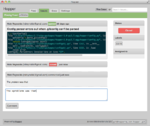
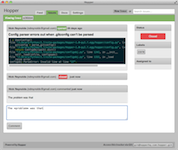
Different font, bigger thumbnails

diff --git a/index.html b/index.html
@@ -6,68 +6,66 @@
       src="https://ajax.googleapis.com/ajax/libs/jquery/1.7/jquery.min.js"></script>
     <script type="text/javascript" src="js/spinners.js"></script>
     <script type="text/javascript" src="js/lightview.js"></script>
-    <link rel="stylesheet" 
-      href="http://fonts.googleapis.com/css?family=Oxygen" type="text/css">
+    <link href='http://fonts.googleapis.com/css?family=Lato:300,400' rel='stylesheet' type='text/css'>
     <link rel="stylesheet" href="css/style.css" type="text/css">
     <link rel="stylesheet" href="css/lightview/lightview.css" type="text/css"/>
   </head>
   <body>
     <div class="content">
-      <h2>Hi &dash; I'm Nick Reynolds.</h2>
-      I'm a web application developer and designer from East Lansing, Michigan.
-      You can find me on <a href="http://github.com/ndreynolds">Github</a> and 
-      can contact me at 
-      <a href="mailto:ndreynolds@gmail.com">ndreynolds@gmail.com</a>.
-      <div class="projects-header">
+      <h2>Hi &mdash; I'm Nick Reynolds.</h2>
+      <p>I'm a web application developer and designer from East Lansing, Michigan.
+      <p>Get in touch with me at 
+      <a href="mailto:ndreynolds@gmail.com" class="email">ndreynolds@gmail.com</a>.
+      <div class="projects-header"> 
         <h3>A Few Things I've Made...</h3>
       </div>
       <ul class="projects">
         <li>
-          <div class="thumbnails">
-            <div class="frame">
-              <a class="lightview" href="img/arcs-home.png">
-                <img class="thumbnail" width="150" src="img/arcs-home.thumb.png"/>
-              </a>
-            </div>
-            <div class="frame">
-              <a class="lightview" href="img/arcs-search.png">
-                <img class="thumbnail" width="150" src="img/arcs-search.thumb.png"/>
-              </a>
-            </div>
-            <div class="frame">
-              <a class="lightview" href="img/arcs-viewer.png">
-                <img class="thumbnail" width="150" src="img/arcs-viewer.thumb.png"/>
-              </a>
-            </div>
-            <div class="frame">
-              <a class="lightview" href="img/arcs-uploader.png">
-                <img class="thumbnail" width="150" src="img/arcs-uploader.thumb.png"/>
-              </a>
-            </div>
-          </div>
           <p><img src="img/arcs.ico"/>
           <a class="project" href="http://arcs.dev.cal.msu.edu">ARCS</a> is an 
           open-source web platform for humanites-based research. Create, relate, 
           organize and search digitized primary evidence.
           <p>Under the covers, it's a web application built on Backbone.js 
           and a RESTful CakePHP backend that persists to SOLR and MySQL.
+          <div class="thumbnails">
+            <div class="frame">
+              <a class="lightview" href="img/arcs-home.png">
+                <img class="thumbnail" width="200" src="img/arcs-home.thumb.png"/>
+              </a>
+            </div>
+            <div class="frame">
+              <a class="lightview" href="img/arcs-search.png">
+                <img class="thumbnail" width="200" src="img/arcs-search.thumb.png"/>
+              </a>
+            </div>
+            <div class="frame">
+              <a class="lightview" href="img/arcs-viewer.png">
+                <img class="thumbnail" width="200" src="img/arcs-viewer.thumb.png"/>
+              </a>
+            </div>
+            <div class="frame">
+              <a class="lightview" href="img/arcs-uploader.png">
+                <img class="thumbnail" width="200" src="img/arcs-uploader.thumb.png"/>
+              </a>
+            </div>
+          </div>
         </li>
         <li>
+          <p><a class="project" href="http://github.com/ndreynolds/hopper">Hopper</a> 
+          is an experimental distributed issue tracker. It's built in Python and uses 
+          Git for versioning.
           <div class="thumbnails">
             <div class="frame">
               <a class="lightview" href="img/hopper-index.png">
-                <img class="thumbnail" height="100" src="img/hopper-index.thumb.png"/>
+                <img class="thumbnail" height="150" src="img/hopper-index.thumb.png"/>
               </a>
             </div>
             <div class="frame">
               <a class="lightview" href="img/hopper-issue.png">
-                <img class="thumbnail" height="100" src="img/hopper-issue.thumb.png"/>
+                <img class="thumbnail" height="150" src="img/hopper-issue.thumb.png"/>
               </a>
             </div>
           </div>
-          <p><a class="project" href="http://github.com/ndreynolds/hopper">Hopper</a> 
-          is an experimental distributed issue tracker. It's built in Python and uses 
-          Git for versioning.
         </li>
         <li>
           <a class="project" href="http://github.com/ndreynolds/vim-cakephp">vim-cakephp</a>

diff --git a/css/style.css b/css/style.css
@@ -1,13 +1,25 @@
 body {
-  font-family: Oxygen;
+  font-family: Lato;
   font-weight: 300;
-  color: #555;
+  color: #333;
   text-shadow: 0 1px 1px #fff;
+  margin-bottom: 50px;
+}
+
+h2,
+h3 {
+  font-weight: 400;
+}
+
+.email {
+  color: #444;
+  font-weight: 400;
+  text-decoration: none;
 }
 
 a {
   color: #08c;
-  text-decoration: underline-dashed;
+  text-decoration: underline;
 }
 
 div.content {
@@ -24,6 +36,10 @@ div.projects-header {
   border-top-right-radius: 5px;
 }
 
+div.projects-header h3 {
+  margin: 10px;
+}
+
 ul.projects {
   list-style: none;
   margin: 0;
@@ -37,10 +53,11 @@ ul.projects {
 ul.projects li {
   padding: 20px;
   border-bottom: 1px solid #bbb;
+  border-top: 1px solid #eee;
 }
 
 ul.projects li a {
-  font-weight: bold;
+  font-weight: 400;
   font-size: 95%;
   color: #444;
   text-decoration: none;
@@ -50,21 +67,20 @@ ul.projects li a:hover {
   text-decoration: underline;
 }
 
-.thumbnails {
-  margin-left: -12px;
-  margin-right: -17px;
-}
-
 .frame {
   background: #000;
   display: inline-block;
   border: 1px solid #888;
-  margin-right: 5px;
+  margin: 10px;
+}
+
+.thumbnails {
+  text-align: center;
 }
 
 .thumbnail {
   background-color: #444;
-  margin-bottom: -5px;
+  margin-bottom: -3px;
   transition: opacity 0.2s ease-in-out;
   -webkit-transition: opacity 0.2s ease-in-out;
   -moz-transition: opacity 0.2s ease-in-out;
